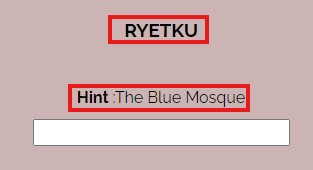
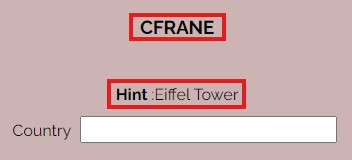
Add label name to input on html and updated README.md images

Changed region(s): [[0.0288, 0.4688, 0.9776, 0.9062], [0.3163, 0.0625, 0.6901, 0.2812]]

diff --git a/index.html b/index.html
@@ -27,7 +27,7 @@
         </div>
         <div class="form">
             <label for="Country">Country</label>
-            <input id="input" type="text">
+            <input id="input" type="text" required>
         </div>
         <h4 id="declaration">Result:</h4>
         <div id="footer">

diff --git a/README.md b/README.md
@@ -11,7 +11,6 @@ Primary  user demography are school-age children to improve knowledge of geograp
 #### Colour Scheme
 #### Topograhy
 The Raleway font is used  all through the website. Sans Serif is used as the backup font for any reason the font isn't being imported into the site properly.
-#### Imagery
 ## Features
 ### Existing Features
 #### Title and  Header
@@ -48,7 +47,7 @@ function getRandomInt(n) {
     return str;                        
   }
 ```
-![shuffle](./assets/readme-images/features-images/scrambleword.jpg)
+![shuffle](./assets/readme-images/features-images/scrambledword.jpg)
 #### Hint
 This is used to display const hint with matches the displayed random shuffled selected country name.
 ```js
@@ -68,7 +67,8 @@ This is used to display const hint with matches the displayed random shuffled se
 Input box provided for user to type in answer before checking result.
 ```html
  <div class="form">
-    <input id="input" type="text">
+    <label for="Country">Country</label>
+    <input id="input" type="text" required>
  </div>
 ```
 ![input-box](./assets/readme-images/features-images/input-box.jpg)
@@ -144,6 +144,7 @@ function refresh() {
 ```
 ![refresh](./assets/readme-images/features-images/refresh.jpg)
 #### Future features Improvement
+Future improvement can be to add City, match city, country to hint and ensure city name is shuffled. Have two inputs for country and city. Score two points when user gets both correct and one point when user gets one correct.
 ## Manual Testing
 ### Features Testing
 |Key Features|   User Value   |Functionality Test|Outcome|
